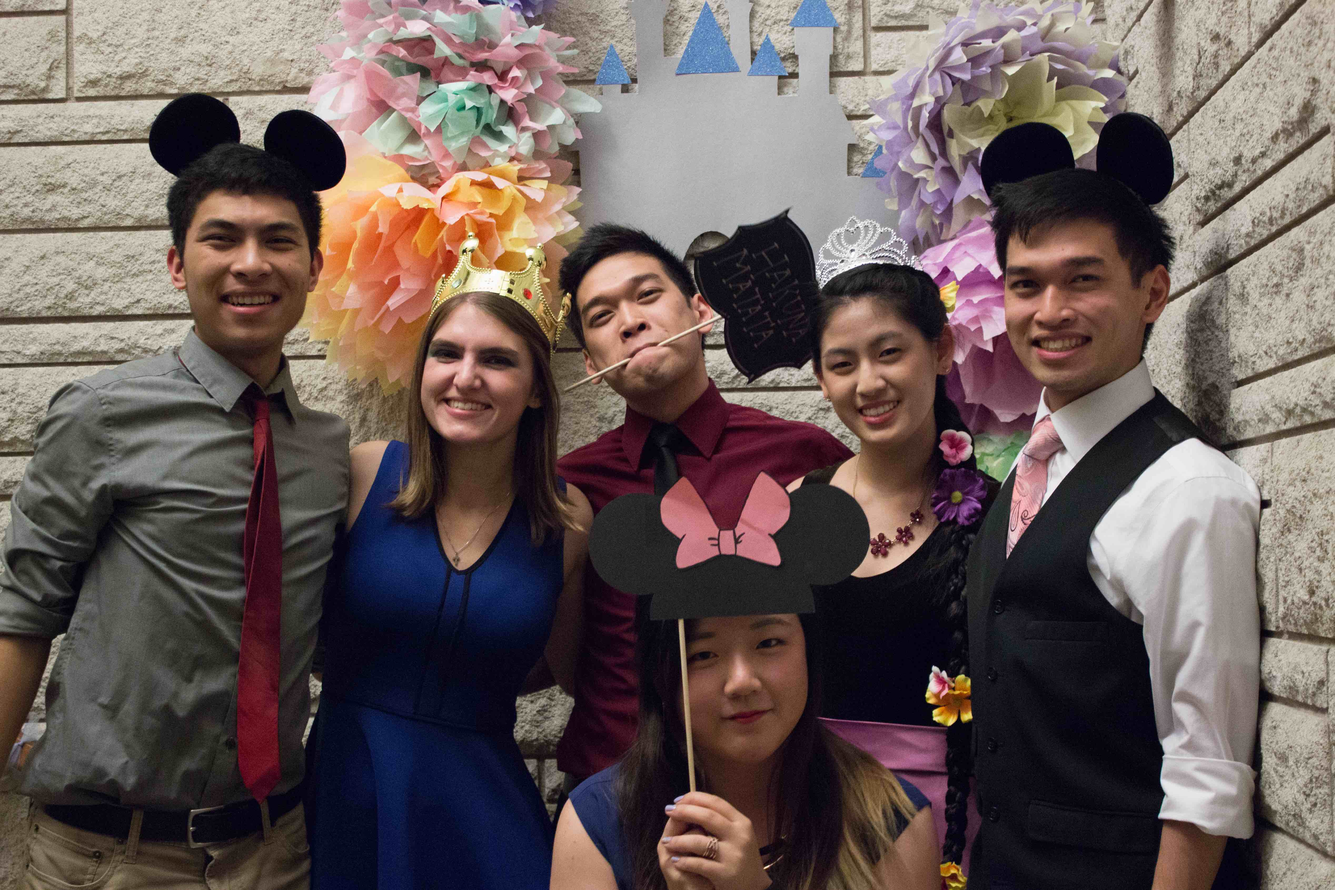
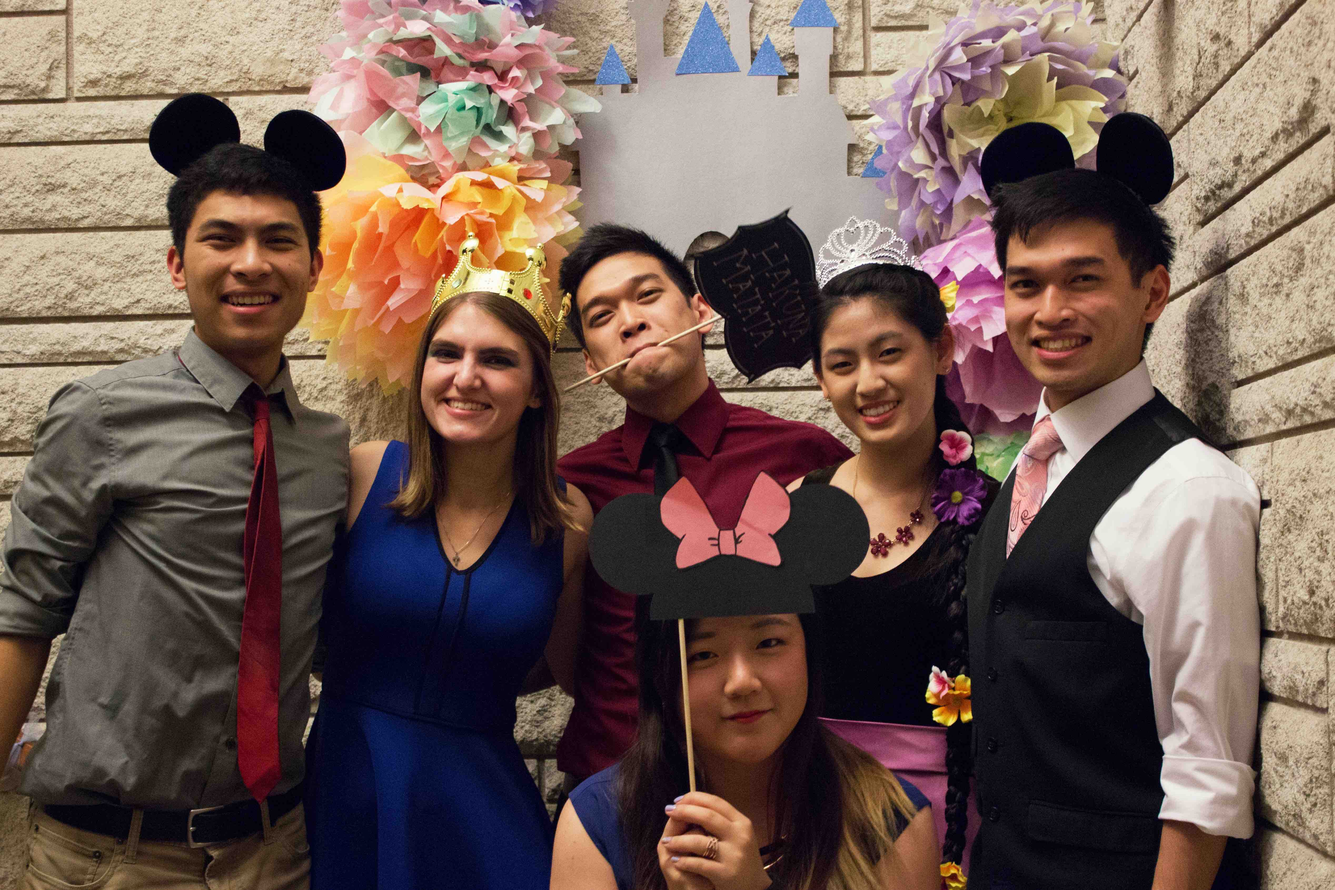
Update Upcoming Event
upcoming event to winter retreat
updated image

diff --git a/index.html b/index.html
@@ -16,7 +16,7 @@
 		<link rel="stylesheet" href="stylesheets/app.css" />
 		<script src="bower_components/modernizr/modernizr.js"></script>
 	</head>
-  
+
 	<body>
 		<div class="contain-to-grid sticky">
 			<nav class="top-bar" data-topbar data-options="scrolltop:false;" role="navigation">
@@ -27,7 +27,7 @@
 					<li class="toggle-topbar menu-icon"><a href="#"><span></span></a>
 					</li>
 				</ul>
-				
+
 				<section class="top-bar-section">
 					<ul class="right">
 						<li class="active"><a href="index.html"><i class="fi-home"></i>Home</a></li>
@@ -40,7 +40,7 @@
 				</section>
 			</nav>
 		</div>
-		
+
 		<div class="main">
 			<div class="section-padding no-padding-top">
 				<div class="row">
@@ -48,7 +48,7 @@
 						<p class="text-center  small-centered medium-10 columns no-margin-bottom">We are focused on offering a great experience here at Notre Dame. We celebrate Asian American heritage in a variety of ways, providing support for Asian American students and promoting an awareness of not only Asian American issues but also diversity in all its forms.</p>
 				</div>
 			</div>
-			
+
 			<div class="dark-gray-bg full-width section-padding antialiased">
 				  <div class="row">
 					   <h2>Upcoming Events</h2>
@@ -56,8 +56,9 @@
 				  <div class="row column-padding">
 						<div class=" medium-7 large-8 columns">
 							<!-- event images are 1440x960 -->
-							<img src="img/events/freshmen-retreat-2015.jpg" alt="freshmen_retreat" />
+							<img src="img/events/winter-retreat-2014.jpg" alt="freshmen_retreat" />
 						</div>
+						<!--
 						<div class=" medium-5 large-4 columns">
 							<div class="full-width border-bottom-header">
 								<h3>Freshmen Fall Retreat 2016</h3>
@@ -67,19 +68,29 @@
 							<a href="http://campusministry.nd.edu/undergraduate-resources/retreats-pilgrimages/asian-asian-american-retreats/" target="_blank">here!</a> <br />
 							</p>
 						</div>
+						-->
+						<div class=" medium-5 large-4 columns">
+							<div class="full-width border-bottom-header">
+								<h3>Winter Retreat 2017</h3>
+								<p>Location: Five Pines Retreat Center<br />( January 27-28, 2016 )<br />4:00PM &ndash; 3:00PM </p>
+							</div>
+							<p class="border-top-header no-margin-bottom"> The winter retreat is open to all ND, SMC, and HC students! Get excited for a lot of fun, bonding, and snow tubing!<br /><br />For more information or to sign up, click
+							<a href="https://campusministry.nd.edu/get-involved/retreats-pilgrimages/asian-asian-american-winter-retreat/" target="_blank">here!</a> <br />
+							</p>
+						</div>
 				</div>
 			</div>
-			
+
 			<div class="section-padding section-padding-bottom">
 				<div class="row">
 					<h2>Weekly Events</h2>
 				</div>
-				
+
 				<div class="row column-padding">
 					<div class="medium-7 large-8 columns">
 						<img src="img/events/grottocandles.jpg" alt="grotto" />
 					</div>
-						
+
 						<div class="medium-5 large-4 columns">
 							<div class="full-width border-bottom-header">
 								<h3>Grotto Trip</h3>
@@ -88,9 +99,9 @@
 							<p class="border-top-header no-margin-bottom">Meet at the front steps of Bond Hall to walk over to the grotto to pray and reflect with other AAA members. Look out for special dedication grotto trips for specific classes (freshman, sophomore, junior, and senior) throughout the semester, with a fun social afterwards (always with delicious food)!</p>
 						</div>
 				</div>
-				
+
 			</div>
-			
+
 			<div class="section-padding no-padding-top show-for-medium-up">
 				<div class="row column-padding">
 					<div class="medium-5 large-4 columns">
@@ -100,19 +111,19 @@
 						</div>
 						<p>The service trips are on Saturdays without home games in the fall semester and almost every Saturday in the spring. Be on the look out for any updates in the weekly e-mails we send out. If interested, go ahead and show up at 9:30am by Library Circle on Saturday! Please direct any concerns and questions to Raphael Mercurio at <a href="mailto:rmercuri@nd.edu?cc=aaa@nd.edu&amp;subject=Service" id="service_contact">rmercuri@nd.edu</a>.</p>
 					</div>
-					
+
 					<div class="medium-7 large-8 columns">
 						<img src="img/events/volunteer.jpg" alt="volunteer" />
 					</div>
 				</div>
 			</div>
-			
+
 			<div class="section-padding no-padding-top show-for-small-only">
 				<div class="row column-padding">
 					<div class="medium-7 large-8 columns">
 						<img src="img/events/volunteer.jpg" alt="volunteer" />
 					</div>
-					
+
 					<div class="medium-5 large-4 columns">
 						<div class="full-width border-bottom-header">
 							<h3>South Bend Center for the Homeless</h3>
@@ -122,11 +133,11 @@
 					</div>
 				</div>
 			</div>
-			
+
 				</div>
-				
+
 				<footer class="section-padding full-width dark-gray-bg antialiased">
-					
+
 					<div class="row">
 						<h2>Contact</h2>
 					</div>
@@ -134,7 +145,7 @@
 						<div class="medium-9 large-6 columns">
 							<p>Email: <a href="mailto:aaa@nd.edu">AAA</a> | <a href="mailto:aluc@nd.edu?cc=aaa@nd.edu&amp;subject=Website%20Suggestions">Webmaster</a><br /><a href="http://www.facebook.com/pages/Asian-American-Association/130379657398" target="_blank" class="button social facebook"><i class="fi-social-facebook"></i></a>&nbsp;&nbsp;&nbsp;&nbsp;<a href="https://twitter.com/aaa_nd" target="_blank" class="button social twitter"><i class="fi-social-twitter"></i></a><br />&copy; 2016&ndash;17 Asian American Association - All Rights Reserved.</p>
 						</div>
-						
+
 						<div class="medium-3 large-6 columns">
 							<div class="footer-nd">
 								<object type="image/svg+xml" data="img/footer/nd_mark_white.svg" class="logo">
@@ -143,10 +154,10 @@
 							</div>
 						</div>
 					</div>
-					
+
 				</footer>
-				
-				
+
+
 
 		<script src="bower_components/jquery/dist/jquery.min.js"></script>
 		<script src="bower_components/foundation/js/foundation.min.js"></script>
